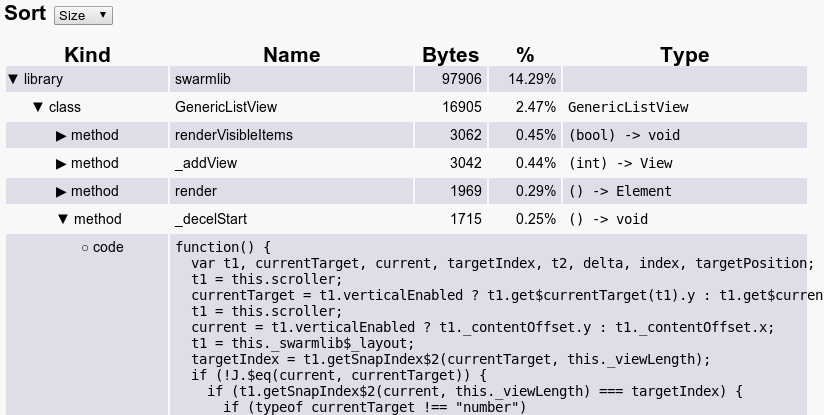
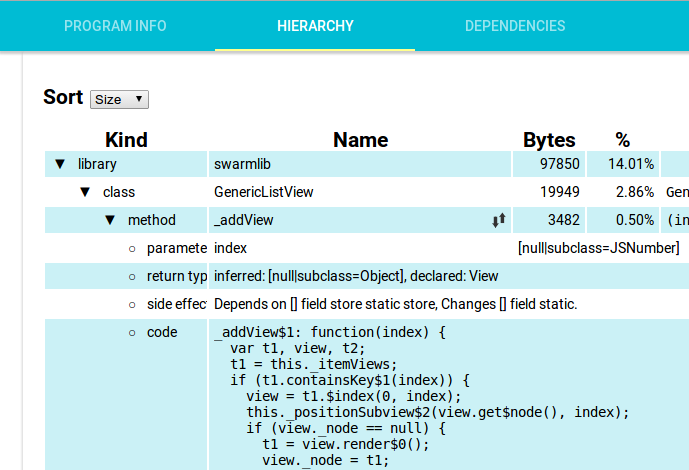
update image and add 'how to build' section to readme

diff --git a/README.md b/README.md
@@ -4,4 +4,26 @@ A web based visualizer for the dart2js `--dump-info` option.
 
 [Live Website](http://dart-lang.github.io/dump-info-visualizer/)
 
+## Screenshot
+
 ![](dump-info-viewer.png)
+
+## How to Build
+
+The dump-info-visualizer is a Pub project, so running `pub build` will
+generate all the files for the viewer.
+
+This repository also hosts the public version of the viewer which is located
+on the `gh-pages` branch.  Any files pushed to `gh-pages` will be made public.
+
+In order to make your changes public, follow these instructions.
+
+* `git checkout master` Your changes should already be on the master branch
+  when you deploy.
+* `pub build` Build all of the javascript and HTML files.
+* `mv build ../` Copy built files out of the project structure.
+* `git checkout gh-pages` The destination branch.
+* `rm -rf build` Remove old build.
+* `mv ../build ./` Copy new build in.
+* `git commit -a -m "your message here"` Commit the new build.
+* `git push origin gh-pages` Deploy to gh-pages.
